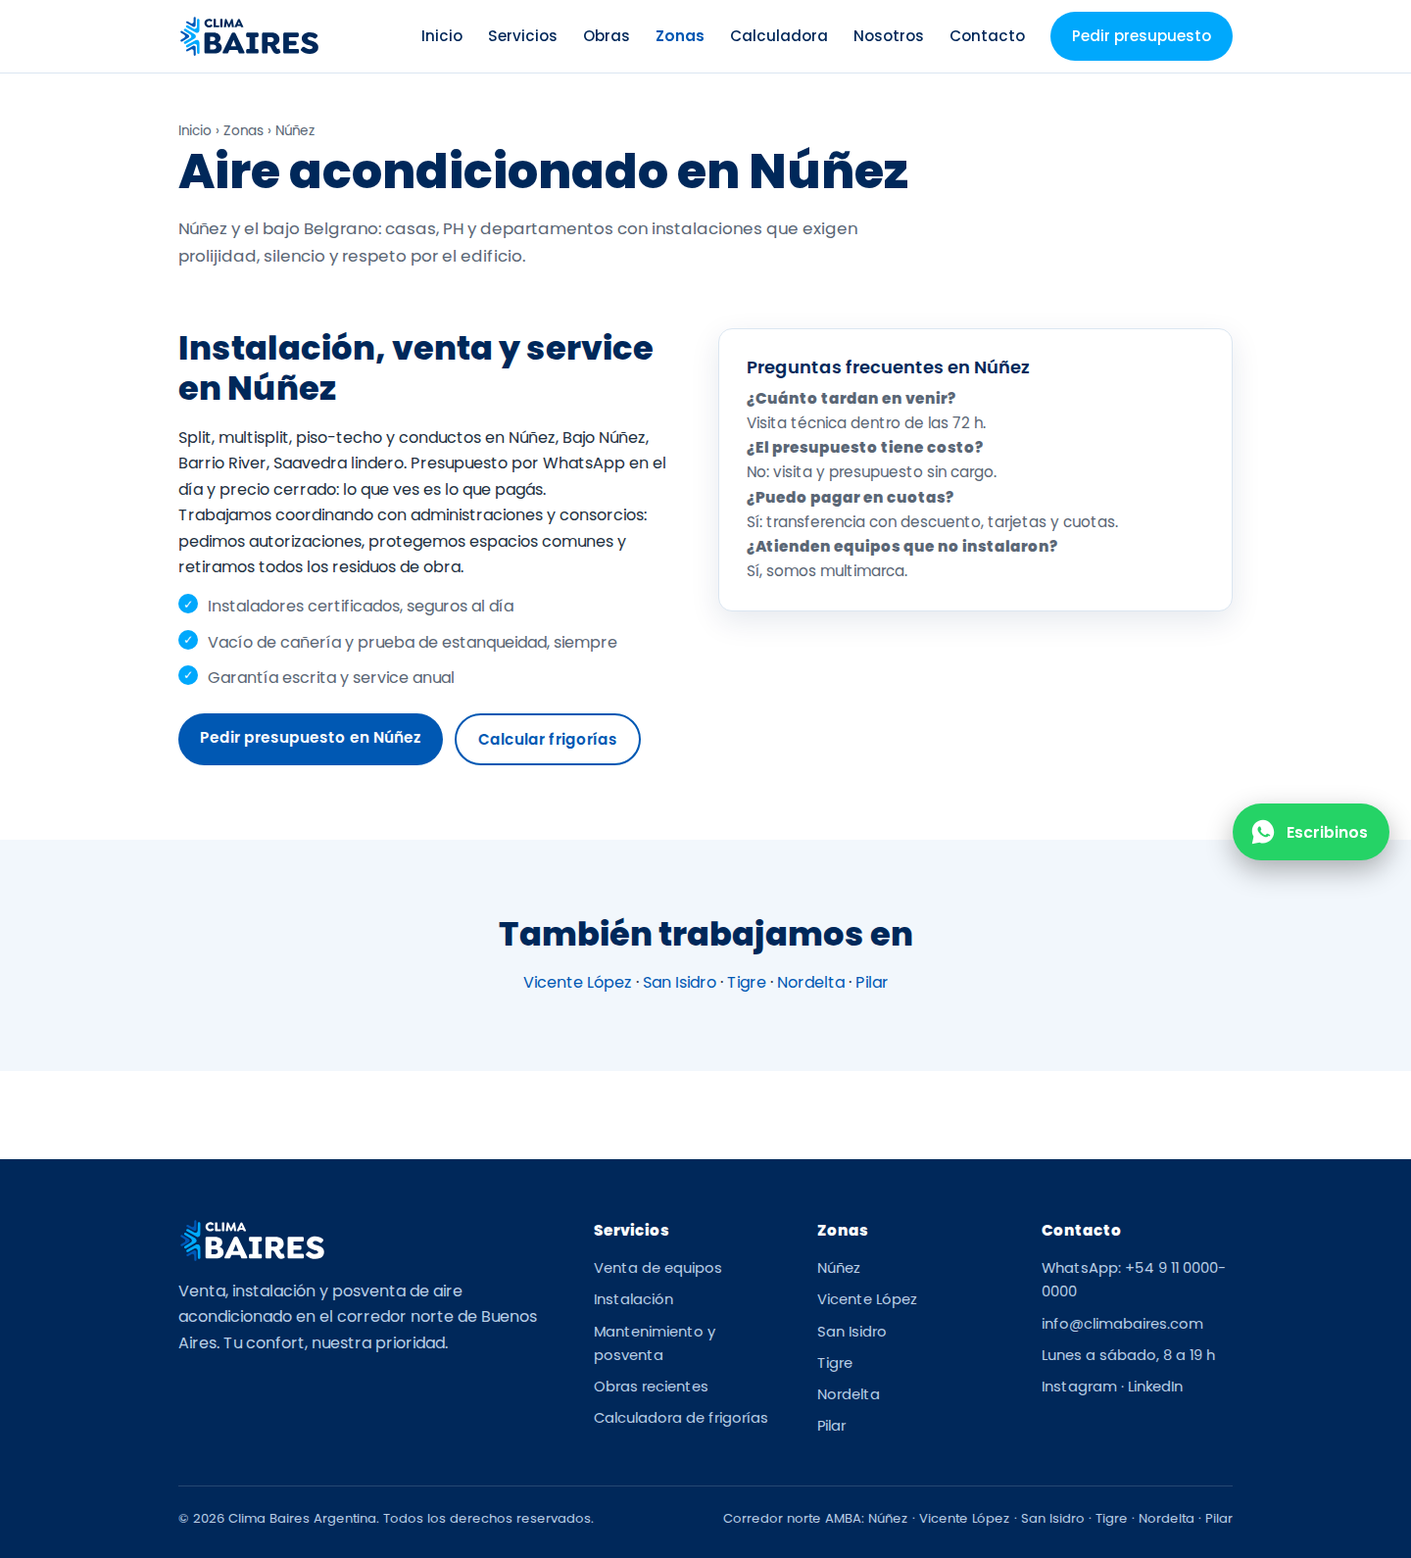
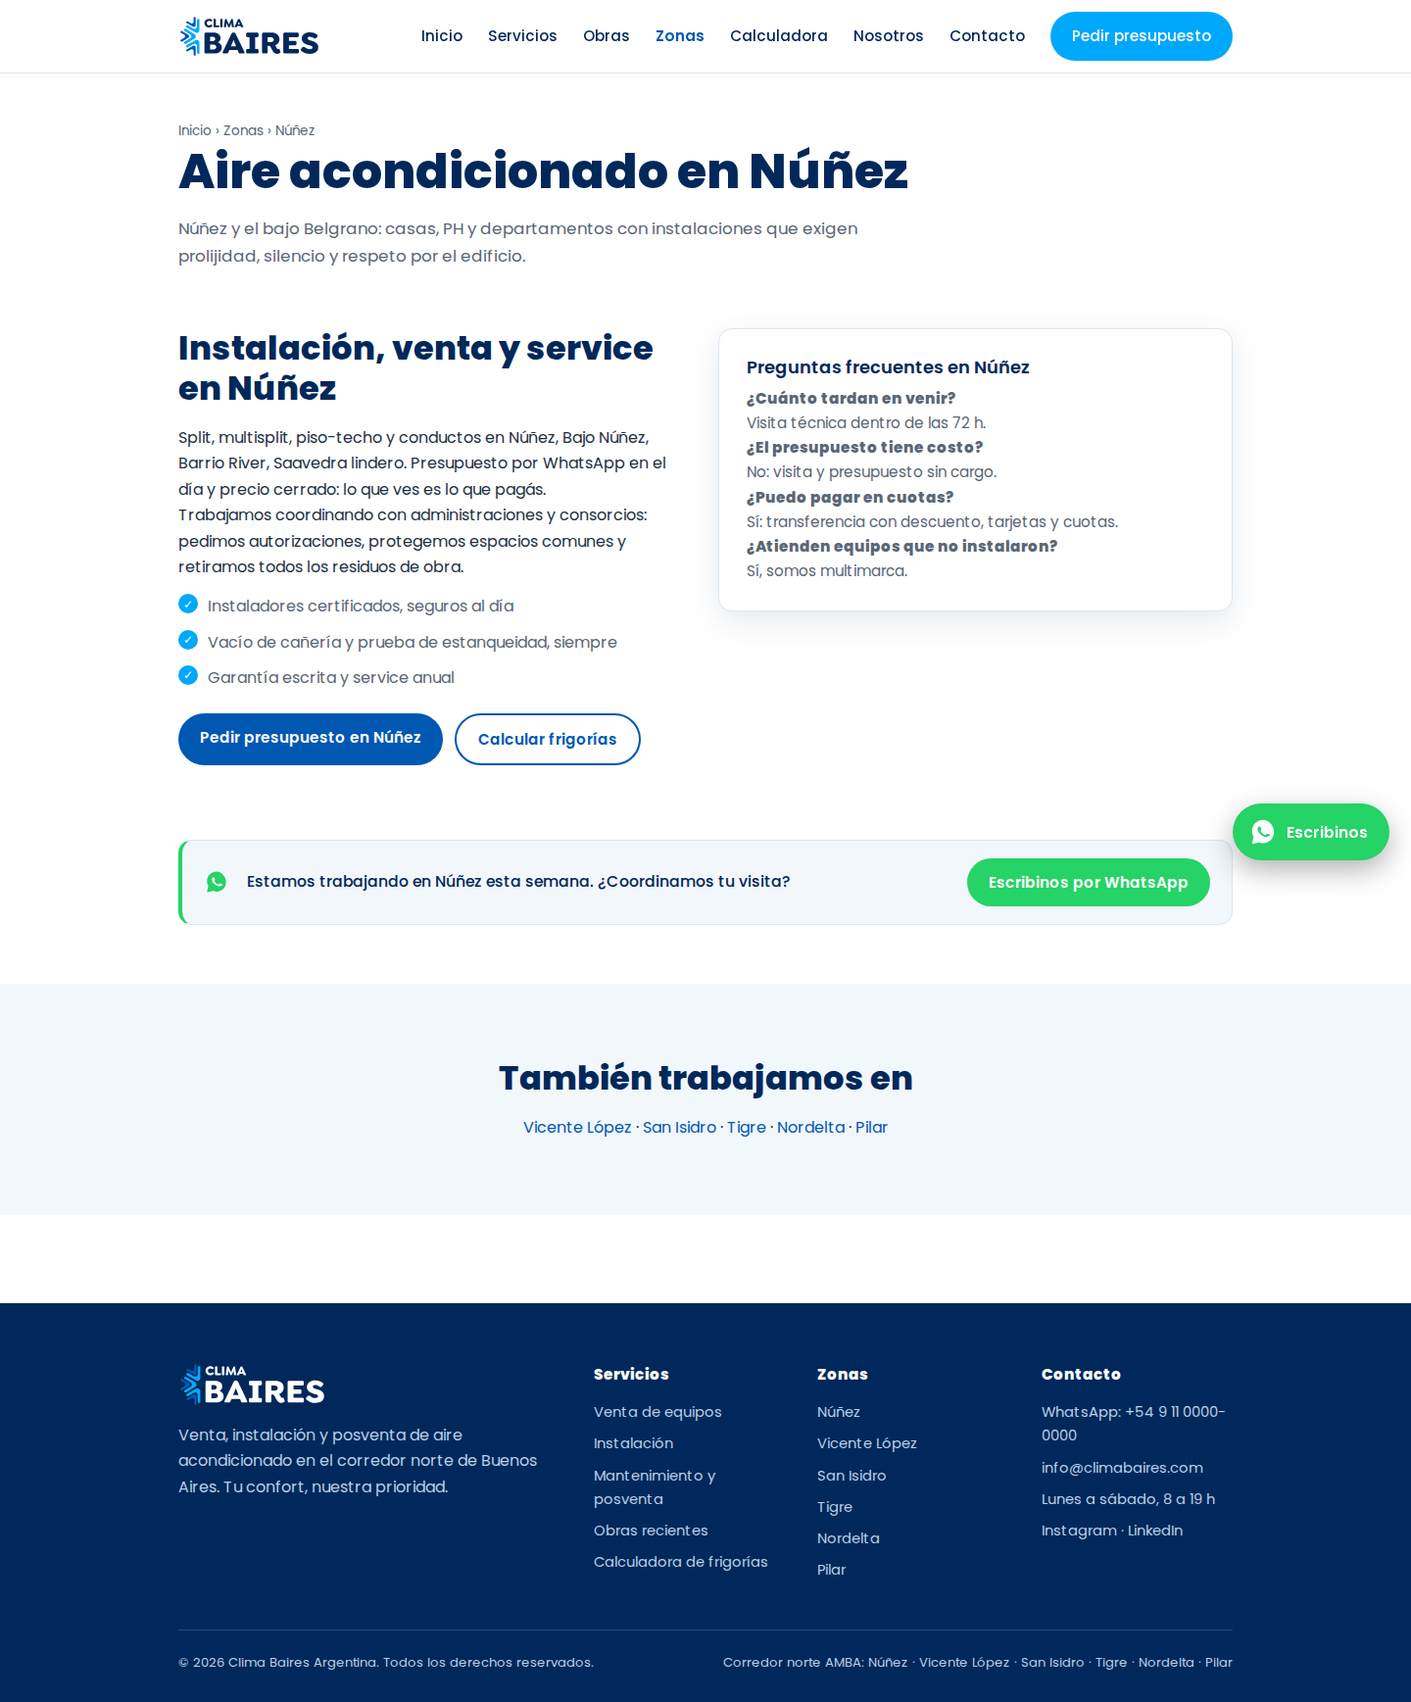
Cobertura de conversión: ninguna franja larga de scroll sin CTA de WhatsApp
- Nueva cinta-cta reutilizable (verde WhatsApp, discreta) distribuida en home,
  servicios, obras, sobre-nosotros, calculadora y páginas de zona
- Galería: tarjetas de CTA intercaladas cada 3 fotos con ganchos rotativos, más
  una cinta bajo los filtros — en móvil el mosaico es de una columna y antes
  quedaban 7 pantallas seguidas sin invitación a chatear
- QA nuevo: mide el hueco vertical máximo sin CTA en el flujo del documento
  (el flotante y la barra móvil son fijos y no cuentan) y falla si supera
  2,5 pantallas. Antes: hasta 7,3 pantallas. Ahora: 1,5 desktop / 2,4 móvil

Claude-Session: https://claude.ai/code/session_01UMXhTey5vCobBk23QC6J6a

diff --git a/web/obras.html b/web/obras.html
@@ -59,6 +59,14 @@
       <button class="filtro" data-grupo="tipo" data-valor="todos" aria-pressed="true">Todos</button>
       <button class="filtro" data-grupo="tipo" data-valor="conductos" aria-pressed="false">Cassette y conductos</button><button class="filtro" data-grupo="tipo" data-valor="equipo" aria-pressed="false">Equipo en obra</button><button class="filtro" data-grupo="tipo" data-valor="instalacion" aria-pressed="false">Instalación</button><button class="filtro" data-grupo="tipo" data-valor="mantenimiento" aria-pressed="false">Mantenimiento</button>
     </div>
+    <div style="margin:22px 0 4px">
+<div class="contenedor">
+  <div class="cinta-cta">
+    <svg viewBox="0 0 32 32" aria-hidden="true"><path d="M16 3C9.4 3 4 8.4 4 15c0 2.1.6 4.2 1.7 6L4 29l8.2-1.6c1.2.6 2.5.9 3.8.9 6.6 0 12-5.4 12-12S22.6 3 16 3zm6.1 16.9c-.3.8-1.5 1.5-2.1 1.6-.6.1-1.3.2-3.6-.8-3-1.2-4.9-4.3-5.1-4.5-.1-.2-1.2-1.6-1.2-3.1s.8-2.2 1-2.5c.3-.3.6-.4.8-.4h.6c.2 0 .4 0 .7.5.3.6.9 2.1.9 2.3.1.2.1.3 0 .5-.1.2-.1.3-.3.5l-.4.5c-.2.2-.3.4-.1.7.2.3.9 1.5 2 2.4 1.4 1.2 2.5 1.6 2.9 1.8.3.2.5.1.7-.1l1.1-1.3c.2-.3.5-.2.8-.1l2.3 1.1c.3.2.5.2.6.4 0 .1 0 .8-.3 1.5z"/></svg>
+    <p>Mirá cómo trabajamos. ¿Querés lo mismo en tu casa?</p>
+    <a class="boton verde" data-wsp="Hola Clima Baires, vi sus obras y quiero un presupuesto." data-origen="cinta" href="#">Pedir presupuesto</a>
+  </div>
+</div></div>
     <div class="obras-grilla" id="obras-grilla">
       <figure class="obra" data-zona="malaga" data-tipo="instalacion">
         <button class="obra-abrir" type="button" data-full="assets/img/obras/instalacion-condensadora-azotea-malaga-01-1600.webp"
@@ -81,6 +89,12 @@
         </button>
         <figcaption>Puesta en marcha de una condensadora comercial en azotea: control de presiones con manómetros, Málaga</figcaption>
       </figure>
+      <div class="obra-cta">
+        <svg viewBox="0 0 32 32" aria-hidden="true"><path d="M16 3C9.4 3 4 8.4 4 15c0 2.1.6 4.2 1.7 6L4 29l8.2-1.6c1.2.6 2.5.9 3.8.9 6.6 0 12-5.4 12-12S22.6 3 16 3zm6.1 16.9c-.3.8-1.5 1.5-2.1 1.6-.6.1-1.3.2-3.6-.8-3-1.2-4.9-4.3-5.1-4.5-.1-.2-1.2-1.6-1.2-3.1s.8-2.2 1-2.5c.3-.3.6-.4.8-.4h.6c.2 0 .4 0 .7.5.3.6.9 2.1.9 2.3.1.2.1.3 0 .5-.1.2-.1.3-.3.5l-.4.5c-.2.2-.3.4-.1.7.2.3.9 1.5 2 2.4 1.4 1.2 2.5 1.6 2.9 1.8.3.2.5.1.7-.1l1.1-1.3c.2-.3.5-.2.8-.1l2.3 1.1c.3.2.5.2.6.4 0 .1 0 .8-.3 1.5z"/></svg>
+        <h3>¿Querés algo así en tu casa?</h3>
+        <p>Mandanos una foto del ambiente y te pasamos precio hoy.</p>
+        <a class="boton verde" data-wsp="Hola Clima Baires, vi sus obras y quiero un presupuesto." data-origen="cinta" href="#">Escribinos por WhatsApp</a>
+      </div>
       <figure class="obra" data-zona="malaga" data-tipo="conductos">
         <button class="obra-abrir" type="button" data-full="assets/img/obras/instalacion-cassette-oficina-malaga-01-1600.webp"
                 data-alt="Instalación de aire acondicionado tipo cassette en el cielorraso de una oficina, Málaga" data-slug="instalacion-cassette-oficina-malaga-01" aria-label="Ampliar: Instalación de aire acondicionado tipo cassette en el cielorraso de una oficina, Málaga">
@@ -102,6 +116,12 @@
         </button>
         <figcaption>Service y mantenimiento de un split mural en una oficina por técnico de Clima Baires, Málaga</figcaption>
       </figure>
+      <div class="obra-cta">
+        <svg viewBox="0 0 32 32" aria-hidden="true"><path d="M16 3C9.4 3 4 8.4 4 15c0 2.1.6 4.2 1.7 6L4 29l8.2-1.6c1.2.6 2.5.9 3.8.9 6.6 0 12-5.4 12-12S22.6 3 16 3zm6.1 16.9c-.3.8-1.5 1.5-2.1 1.6-.6.1-1.3.2-3.6-.8-3-1.2-4.9-4.3-5.1-4.5-.1-.2-1.2-1.6-1.2-3.1s.8-2.2 1-2.5c.3-.3.6-.4.8-.4h.6c.2 0 .4 0 .7.5.3.6.9 2.1.9 2.3.1.2.1.3 0 .5-.1.2-.1.3-.3.5l-.4.5c-.2.2-.3.4-.1.7.2.3.9 1.5 2 2.4 1.4 1.2 2.5 1.6 2.9 1.8.3.2.5.1.7-.1l1.1-1.3c.2-.3.5-.2.8-.1l2.3 1.1c.3.2.5.2.6.4 0 .1 0 .8-.3 1.5z"/></svg>
+        <h3>Instalamos esta semana</h3>
+        <p>Contanos qué necesitás y coordinamos la visita técnica.</p>
+        <a class="boton verde" data-wsp="Hola Clima Baires, quiero coordinar una visita técnica." data-origen="cinta" href="#">Escribinos por WhatsApp</a>
+      </div>
       <figure class="obra" data-zona="malaga" data-tipo="equipo">
         <button class="obra-abrir" type="button" data-full="assets/img/obras/nave-flota-stock-malaga-01-1600.webp"
                 data-alt="La base de Clima Baires: flota de vehículos rotulados y stock de equipos listos para instalar, Málaga (casa matriz)" data-slug="nave-flota-stock-malaga-01" aria-label="Ampliar: La base de Clima Baires: flota de vehículos rotulados y stock de equipos listos para instalar, Málaga (casa matriz)">
@@ -123,6 +143,12 @@
         </button>
         <figcaption>Técnico de Clima Baires preparando el acceso para climatizar un local comercial, Málaga</figcaption>
       </figure>
+      <div class="obra-cta">
+        <svg viewBox="0 0 32 32" aria-hidden="true"><path d="M16 3C9.4 3 4 8.4 4 15c0 2.1.6 4.2 1.7 6L4 29l8.2-1.6c1.2.6 2.5.9 3.8.9 6.6 0 12-5.4 12-12S22.6 3 16 3zm6.1 16.9c-.3.8-1.5 1.5-2.1 1.6-.6.1-1.3.2-3.6-.8-3-1.2-4.9-4.3-5.1-4.5-.1-.2-1.2-1.6-1.2-3.1s.8-2.2 1-2.5c.3-.3.6-.4.8-.4h.6c.2 0 .4 0 .7.5.3.6.9 2.1.9 2.3.1.2.1.3 0 .5-.1.2-.1.3-.3.5l-.4.5c-.2.2-.3.4-.1.7.2.3.9 1.5 2 2.4 1.4 1.2 2.5 1.6 2.9 1.8.3.2.5.1.7-.1l1.1-1.3c.2-.3.5-.2.8-.1l2.3 1.1c.3.2.5.2.6.4 0 .1 0 .8-.3 1.5z"/></svg>
+        <h3>¿Tenés un equipo para cambiar?</h3>
+        <p>Te cotizamos el recambio con retiro del viejo incluido.</p>
+        <a class="boton verde" data-wsp="Hola Clima Baires, quiero cotizar un recambio de equipo." data-origen="cinta" href="#">Escribinos por WhatsApp</a>
+      </div>
       <figure class="obra" data-zona="malaga" data-tipo="equipo">
         <button class="obra-abrir" type="button" data-full="assets/img/obras/equipo-llegada-obra-malaga-01-1600.webp"
                 data-alt="El equipo de Clima Baires llegando a una obra con escaleras y herramientas, Málaga" data-slug="equipo-llegada-obra-malaga-01" aria-label="Ampliar: El equipo de Clima Baires llegando a una obra con escaleras y herramientas, Málaga">

diff --git a/web/index.html b/web/index.html
@@ -95,6 +95,16 @@
   </div>
 </section>
 
+<section class="seccion" style="padding:0 0 40px">
+<div class="contenedor">
+  <div class="cinta-cta">
+    <svg viewBox="0 0 32 32" aria-hidden="true"><path d="M16 3C9.4 3 4 8.4 4 15c0 2.1.6 4.2 1.7 6L4 29l8.2-1.6c1.2.6 2.5.9 3.8.9 6.6 0 12-5.4 12-12S22.6 3 16 3zm6.1 16.9c-.3.8-1.5 1.5-2.1 1.6-.6.1-1.3.2-3.6-.8-3-1.2-4.9-4.3-5.1-4.5-.1-.2-1.2-1.6-1.2-3.1s.8-2.2 1-2.5c.3-.3.6-.4.8-.4h.6c.2 0 .4 0 .7.5.3.6.9 2.1.9 2.3.1.2.1.3 0 .5-.1.2-.1.3-.3.5l-.4.5c-.2.2-.3.4-.1.7.2.3.9 1.5 2 2.4 1.4 1.2 2.5 1.6 2.9 1.8.3.2.5.1.7-.1l1.1-1.3c.2-.3.5-.2.8-.1l2.3 1.1c.3.2.5.2.6.4 0 .1 0 .8-.3 1.5z"/></svg>
+    <p>¿Cuál de los tres necesitás? Preguntanos sin compromiso.</p>
+    <a class="boton verde" data-wsp="Hola Clima Baires, quiero hacer una consulta sobre sus servicios." data-origen="cinta" href="#">Preguntar por WhatsApp</a>
+  </div>
+</div>
+</section>
+
 <section class="seccion alterna" id="zonas">
   <div class="contenedor">
     <div class="centrado"><span class="kicker">Dónde trabajamos</span><h2>De Núñez a Pilar</h2></div>
@@ -109,6 +119,16 @@
     <div class="claim"><strong>Garantía</strong><span>por escrito</span></div>
     <div class="claim"><strong>Countries</strong><span>seguros al día</span></div>
   </div>
+</section>
+
+<section class="seccion" style="padding:0 0 40px">
+<div class="contenedor">
+  <div class="cinta-cta">
+    <svg viewBox="0 0 32 32" aria-hidden="true"><path d="M16 3C9.4 3 4 8.4 4 15c0 2.1.6 4.2 1.7 6L4 29l8.2-1.6c1.2.6 2.5.9 3.8.9 6.6 0 12-5.4 12-12S22.6 3 16 3zm6.1 16.9c-.3.8-1.5 1.5-2.1 1.6-.6.1-1.3.2-3.6-.8-3-1.2-4.9-4.3-5.1-4.5-.1-.2-1.2-1.6-1.2-3.1s.8-2.2 1-2.5c.3-.3.6-.4.8-.4h.6c.2 0 .4 0 .7.5.3.6.9 2.1.9 2.3.1.2.1.3 0 .5-.1.2-.1.3-.3.5l-.4.5c-.2.2-.3.4-.1.7.2.3.9 1.5 2 2.4 1.4 1.2 2.5 1.6 2.9 1.8.3.2.5.1.7-.1l1.1-1.3c.2-.3.5-.2.8-.1l2.3 1.1c.3.2.5.2.6.4 0 .1 0 .8-.3 1.5z"/></svg>
+    <p>Contanos qué ambiente querés climatizar y te pasamos precio hoy.</p>
+    <a class="boton verde" data-wsp="Hola Clima Baires, quiero un presupuesto de equipo + instalación." data-origen="cinta" href="#">Escribinos por WhatsApp</a>
+  </div>
+</div>
 </section>
 
 <section class="seccion alterna" id="obras">

diff --git a/web/assets/css/styles.css b/web/assets/css/styles.css
@@ -146,6 +146,27 @@ h3 { font-size: 1.12rem; font-weight: 600; }
 .tarjeta ul { margin: 10px 0 0 18px; color: var(--gris); font-size: .93rem; }
 .tarjeta .enlace { display: inline-block; margin-top: 14px; font-weight: 600; font-size: .92rem; }
 
+/* cinta de conversión: ninguna franja larga de scroll sin CTA de WhatsApp */
+.cinta-cta {
+  display: flex; align-items: center; gap: 18px; flex-wrap: wrap;
+  background: var(--hielo); border: 1px solid var(--linea); border-left: 4px solid #25D366;
+  border-radius: var(--radio); padding: 18px 22px;
+}
+.cinta-cta svg { width: 26px; height: 26px; fill: #25D366; flex: 0 0 auto; }
+.cinta-cta p { margin: 0; flex: 1 1 260px; color: var(--navy); font-weight: 500; font-size: .98rem; }
+.boton.verde { background: #25D366; }
+.boton.verde:hover { box-shadow: 0 8px 20px rgba(37, 211, 102, .38); }
+
+/* tarjeta de CTA dentro del mosaico de obras */
+.obra-cta {
+  break-inside: avoid; margin: 0 0 22px; text-align: center;
+  background: linear-gradient(160deg, var(--azul), var(--navy)); color: #fff;
+  border-radius: var(--radio); padding: 30px 24px; box-shadow: var(--sombra);
+}
+.obra-cta svg { width: 40px; height: 40px; fill: #fff; opacity: .9; }
+.obra-cta h3 { color: #fff; margin: 10px 0 6px; }
+.obra-cta p { color: #cfe8ff; font-size: .92rem; margin-bottom: 18px; }
+
 .lista-check { list-style: none; margin-top: 14px; }
 .lista-check li { padding-left: 30px; position: relative; margin-bottom: 10px; color: var(--gris); }
 .lista-check li::before {

diff --git a/web/servicios.html b/web/servicios.html
@@ -70,6 +70,16 @@
   </div>
 </section>
 
+<section class="seccion" style="padding:0 0 50px">
+<div class="contenedor">
+  <div class="cinta-cta">
+    <svg viewBox="0 0 32 32" aria-hidden="true"><path d="M16 3C9.4 3 4 8.4 4 15c0 2.1.6 4.2 1.7 6L4 29l8.2-1.6c1.2.6 2.5.9 3.8.9 6.6 0 12-5.4 12-12S22.6 3 16 3zm6.1 16.9c-.3.8-1.5 1.5-2.1 1.6-.6.1-1.3.2-3.6-.8-3-1.2-4.9-4.3-5.1-4.5-.1-.2-1.2-1.6-1.2-3.1s.8-2.2 1-2.5c.3-.3.6-.4.8-.4h.6c.2 0 .4 0 .7.5.3.6.9 2.1.9 2.3.1.2.1.3 0 .5-.1.2-.1.3-.3.5l-.4.5c-.2.2-.3.4-.1.7.2.3.9 1.5 2 2.4 1.4 1.2 2.5 1.6 2.9 1.8.3.2.5.1.7-.1l1.1-1.3c.2-.3.5-.2.8-.1l2.3 1.1c.3.2.5.2.6.4 0 .1 0 .8-.3 1.5z"/></svg>
+    <p>Contanos qué necesitás y te armamos el presupuesto hoy.</p>
+    <a class="boton verde" data-wsp="Hola Clima Baires, quiero un presupuesto." data-origen="cinta" href="#">Escribinos por WhatsApp</a>
+  </div>
+</div>
+</section>
+
 <section class="seccion alterna">
   <div class="contenedor">
     <div class="centrado"><span class="kicker">Cómo trabajamos</span><h2>Cuatro pasos, cero sorpresas</h2></div>

diff --git a/web/zonas/vicente-lopez.html b/web/zonas/vicente-lopez.html
@@ -75,6 +75,16 @@
   </div>
 </section>
 
+<section class="seccion" style="padding:0 0 60px">
+<div class="contenedor">
+  <div class="cinta-cta">
+    <svg viewBox="0 0 32 32" aria-hidden="true"><path d="M16 3C9.4 3 4 8.4 4 15c0 2.1.6 4.2 1.7 6L4 29l8.2-1.6c1.2.6 2.5.9 3.8.9 6.6 0 12-5.4 12-12S22.6 3 16 3zm6.1 16.9c-.3.8-1.5 1.5-2.1 1.6-.6.1-1.3.2-3.6-.8-3-1.2-4.9-4.3-5.1-4.5-.1-.2-1.2-1.6-1.2-3.1s.8-2.2 1-2.5c.3-.3.6-.4.8-.4h.6c.2 0 .4 0 .7.5.3.6.9 2.1.9 2.3.1.2.1.3 0 .5-.1.2-.1.3-.3.5l-.4.5c-.2.2-.3.4-.1.7.2.3.9 1.5 2 2.4 1.4 1.2 2.5 1.6 2.9 1.8.3.2.5.1.7-.1l1.1-1.3c.2-.3.5-.2.8-.1l2.3 1.1c.3.2.5.2.6.4 0 .1 0 .8-.3 1.5z"/></svg>
+    <p>Estamos trabajando en Vicente López esta semana. ¿Coordinamos tu visita?</p>
+    <a class="boton verde" data-wsp="Hola, estoy en Vicente López y quiero presupuesto de instalación." data-origen="cinta" href="#">Escribinos por WhatsApp</a>
+  </div>
+</div>
+</section>
+
 <section class="seccion alterna">
   <div class="contenedor centrado">
     <h2>También trabajamos en</h2>

diff --git a/web/zonas/san-isidro.html b/web/zonas/san-isidro.html
@@ -75,6 +75,16 @@
   </div>
 </section>
 
+<section class="seccion" style="padding:0 0 60px">
+<div class="contenedor">
+  <div class="cinta-cta">
+    <svg viewBox="0 0 32 32" aria-hidden="true"><path d="M16 3C9.4 3 4 8.4 4 15c0 2.1.6 4.2 1.7 6L4 29l8.2-1.6c1.2.6 2.5.9 3.8.9 6.6 0 12-5.4 12-12S22.6 3 16 3zm6.1 16.9c-.3.8-1.5 1.5-2.1 1.6-.6.1-1.3.2-3.6-.8-3-1.2-4.9-4.3-5.1-4.5-.1-.2-1.2-1.6-1.2-3.1s.8-2.2 1-2.5c.3-.3.6-.4.8-.4h.6c.2 0 .4 0 .7.5.3.6.9 2.1.9 2.3.1.2.1.3 0 .5-.1.2-.1.3-.3.5l-.4.5c-.2.2-.3.4-.1.7.2.3.9 1.5 2 2.4 1.4 1.2 2.5 1.6 2.9 1.8.3.2.5.1.7-.1l1.1-1.3c.2-.3.5-.2.8-.1l2.3 1.1c.3.2.5.2.6.4 0 .1 0 .8-.3 1.5z"/></svg>
+    <p>Estamos trabajando en San Isidro esta semana. ¿Coordinamos tu visita?</p>
+    <a class="boton verde" data-wsp="Hola, estoy en San Isidro y quiero presupuesto de instalación." data-origen="cinta" href="#">Escribinos por WhatsApp</a>
+  </div>
+</div>
+</section>
+
 <section class="seccion alterna">
   <div class="contenedor centrado">
     <h2>También trabajamos en</h2>

diff --git a/web/zonas/nordelta.html b/web/zonas/nordelta.html
@@ -75,6 +75,16 @@
   </div>
 </section>
 
+<section class="seccion" style="padding:0 0 60px">
+<div class="contenedor">
+  <div class="cinta-cta">
+    <svg viewBox="0 0 32 32" aria-hidden="true"><path d="M16 3C9.4 3 4 8.4 4 15c0 2.1.6 4.2 1.7 6L4 29l8.2-1.6c1.2.6 2.5.9 3.8.9 6.6 0 12-5.4 12-12S22.6 3 16 3zm6.1 16.9c-.3.8-1.5 1.5-2.1 1.6-.6.1-1.3.2-3.6-.8-3-1.2-4.9-4.3-5.1-4.5-.1-.2-1.2-1.6-1.2-3.1s.8-2.2 1-2.5c.3-.3.6-.4.8-.4h.6c.2 0 .4 0 .7.5.3.6.9 2.1.9 2.3.1.2.1.3 0 .5-.1.2-.1.3-.3.5l-.4.5c-.2.2-.3.4-.1.7.2.3.9 1.5 2 2.4 1.4 1.2 2.5 1.6 2.9 1.8.3.2.5.1.7-.1l1.1-1.3c.2-.3.5-.2.8-.1l2.3 1.1c.3.2.5.2.6.4 0 .1 0 .8-.3 1.5z"/></svg>
+    <p>Estamos trabajando en Nordelta esta semana. ¿Coordinamos tu visita?</p>
+    <a class="boton verde" data-wsp="Hola, estoy en Nordelta y quiero presupuesto de instalación." data-origen="cinta" href="#">Escribinos por WhatsApp</a>
+  </div>
+</div>
+</section>
+
 <section class="seccion alterna">
   <div class="contenedor centrado">
     <h2>También trabajamos en</h2>

diff --git a/web/zonas/nunez.html b/web/zonas/nunez.html
@@ -75,6 +75,16 @@
   </div>
 </section>
 
+<section class="seccion" style="padding:0 0 60px">
+<div class="contenedor">
+  <div class="cinta-cta">
+    <svg viewBox="0 0 32 32" aria-hidden="true"><path d="M16 3C9.4 3 4 8.4 4 15c0 2.1.6 4.2 1.7 6L4 29l8.2-1.6c1.2.6 2.5.9 3.8.9 6.6 0 12-5.4 12-12S22.6 3 16 3zm6.1 16.9c-.3.8-1.5 1.5-2.1 1.6-.6.1-1.3.2-3.6-.8-3-1.2-4.9-4.3-5.1-4.5-.1-.2-1.2-1.6-1.2-3.1s.8-2.2 1-2.5c.3-.3.6-.4.8-.4h.6c.2 0 .4 0 .7.5.3.6.9 2.1.9 2.3.1.2.1.3 0 .5-.1.2-.1.3-.3.5l-.4.5c-.2.2-.3.4-.1.7.2.3.9 1.5 2 2.4 1.4 1.2 2.5 1.6 2.9 1.8.3.2.5.1.7-.1l1.1-1.3c.2-.3.5-.2.8-.1l2.3 1.1c.3.2.5.2.6.4 0 .1 0 .8-.3 1.5z"/></svg>
+    <p>Estamos trabajando en Núñez esta semana. ¿Coordinamos tu visita?</p>
+    <a class="boton verde" data-wsp="Hola, estoy en Núñez y quiero presupuesto de instalación." data-origen="cinta" href="#">Escribinos por WhatsApp</a>
+  </div>
+</div>
+</section>
+
 <section class="seccion alterna">
   <div class="contenedor centrado">
     <h2>También trabajamos en</h2>

diff --git a/web/zonas/pilar.html b/web/zonas/pilar.html
@@ -75,6 +75,16 @@
   </div>
 </section>
 
+<section class="seccion" style="padding:0 0 60px">
+<div class="contenedor">
+  <div class="cinta-cta">
+    <svg viewBox="0 0 32 32" aria-hidden="true"><path d="M16 3C9.4 3 4 8.4 4 15c0 2.1.6 4.2 1.7 6L4 29l8.2-1.6c1.2.6 2.5.9 3.8.9 6.6 0 12-5.4 12-12S22.6 3 16 3zm6.1 16.9c-.3.8-1.5 1.5-2.1 1.6-.6.1-1.3.2-3.6-.8-3-1.2-4.9-4.3-5.1-4.5-.1-.2-1.2-1.6-1.2-3.1s.8-2.2 1-2.5c.3-.3.6-.4.8-.4h.6c.2 0 .4 0 .7.5.3.6.9 2.1.9 2.3.1.2.1.3 0 .5-.1.2-.1.3-.3.5l-.4.5c-.2.2-.3.4-.1.7.2.3.9 1.5 2 2.4 1.4 1.2 2.5 1.6 2.9 1.8.3.2.5.1.7-.1l1.1-1.3c.2-.3.5-.2.8-.1l2.3 1.1c.3.2.5.2.6.4 0 .1 0 .8-.3 1.5z"/></svg>
+    <p>Estamos trabajando en Pilar esta semana. ¿Coordinamos tu visita?</p>
+    <a class="boton verde" data-wsp="Hola, estoy en Pilar y quiero presupuesto de instalación." data-origen="cinta" href="#">Escribinos por WhatsApp</a>
+  </div>
+</div>
+</section>
+
 <section class="seccion alterna">
   <div class="contenedor centrado">
     <h2>También trabajamos en</h2>

diff --git a/web/zonas/tigre.html b/web/zonas/tigre.html
@@ -75,6 +75,16 @@
   </div>
 </section>
 
+<section class="seccion" style="padding:0 0 60px">
+<div class="contenedor">
+  <div class="cinta-cta">
+    <svg viewBox="0 0 32 32" aria-hidden="true"><path d="M16 3C9.4 3 4 8.4 4 15c0 2.1.6 4.2 1.7 6L4 29l8.2-1.6c1.2.6 2.5.9 3.8.9 6.6 0 12-5.4 12-12S22.6 3 16 3zm6.1 16.9c-.3.8-1.5 1.5-2.1 1.6-.6.1-1.3.2-3.6-.8-3-1.2-4.9-4.3-5.1-4.5-.1-.2-1.2-1.6-1.2-3.1s.8-2.2 1-2.5c.3-.3.6-.4.8-.4h.6c.2 0 .4 0 .7.5.3.6.9 2.1.9 2.3.1.2.1.3 0 .5-.1.2-.1.3-.3.5l-.4.5c-.2.2-.3.4-.1.7.2.3.9 1.5 2 2.4 1.4 1.2 2.5 1.6 2.9 1.8.3.2.5.1.7-.1l1.1-1.3c.2-.3.5-.2.8-.1l2.3 1.1c.3.2.5.2.6.4 0 .1 0 .8-.3 1.5z"/></svg>
+    <p>Estamos trabajando en Tigre esta semana. ¿Coordinamos tu visita?</p>
+    <a class="boton verde" data-wsp="Hola, estoy en Tigre y quiero presupuesto de instalación." data-origen="cinta" href="#">Escribinos por WhatsApp</a>
+  </div>
+</div>
+</section>
+
 <section class="seccion alterna">
   <div class="contenedor centrado">
     <h2>También trabajamos en</h2>

diff --git a/web/calculadora-frigorias.html b/web/calculadora-frigorias.html
@@ -96,6 +96,16 @@
   </div>
 </section>
 
+<section class="seccion" style="padding:0 0 70px">
+<div class="contenedor">
+  <div class="cinta-cta">
+    <svg viewBox="0 0 32 32" aria-hidden="true"><path d="M16 3C9.4 3 4 8.4 4 15c0 2.1.6 4.2 1.7 6L4 29l8.2-1.6c1.2.6 2.5.9 3.8.9 6.6 0 12-5.4 12-12S22.6 3 16 3zm6.1 16.9c-.3.8-1.5 1.5-2.1 1.6-.6.1-1.3.2-3.6-.8-3-1.2-4.9-4.3-5.1-4.5-.1-.2-1.2-1.6-1.2-3.1s.8-2.2 1-2.5c.3-.3.6-.4.8-.4h.6c.2 0 .4 0 .7.5.3.6.9 2.1.9 2.3.1.2.1.3 0 .5-.1.2-.1.3-.3.5l-.4.5c-.2.2-.3.4-.1.7.2.3.9 1.5 2 2.4 1.4 1.2 2.5 1.6 2.9 1.8.3.2.5.1.7-.1l1.1-1.3c.2-.3.5-.2.8-.1l2.3 1.1c.3.2.5.2.6.4 0 .1 0 .8-.3 1.5z"/></svg>
+    <p>¿Preferís que lo veamos nosotros? Mandanos las medidas por WhatsApp.</p>
+    <a class="boton verde" data-wsp="Hola Clima Baires, quiero saber qué equipo necesito para mi ambiente." data-origen="cinta" href="#">Consultar por WhatsApp</a>
+  </div>
+</div>
+</section>
+
 
 <footer class="pie">
   <div class="contenedor">

diff --git a/web/sobre-nosotros.html b/web/sobre-nosotros.html
@@ -78,6 +78,15 @@
   </div>
 </section>
 
+<section class="seccion" style="padding:0 0 60px">
+<div class="contenedor">
+  <div class="cinta-cta">
+    <svg viewBox="0 0 32 32" aria-hidden="true"><path d="M16 3C9.4 3 4 8.4 4 15c0 2.1.6 4.2 1.7 6L4 29l8.2-1.6c1.2.6 2.5.9 3.8.9 6.6 0 12-5.4 12-12S22.6 3 16 3zm6.1 16.9c-.3.8-1.5 1.5-2.1 1.6-.6.1-1.3.2-3.6-.8-3-1.2-4.9-4.3-5.1-4.5-.1-.2-1.2-1.6-1.2-3.1s.8-2.2 1-2.5c.3-.3.6-.4.8-.4h.6c.2 0 .4 0 .7.5.3.6.9 2.1.9 2.3.1.2.1.3 0 .5-.1.2-.1.3-.3.5l-.4.5c-.2.2-.3.4-.1.7.2.3.9 1.5 2 2.4 1.4 1.2 2.5 1.6 2.9 1.8.3.2.5.1.7-.1l1.1-1.3c.2-.3.5-.2.8-.1l2.3 1.1c.3.2.5.2.6.4 0 .1 0 .8-.3 1.5z"/></svg>
+    <p>¿Te contamos cómo lo haríamos en tu casa?</p>
+    <a class="boton verde" data-wsp="Hola Clima Baires, quiero que me asesoren para climatizar mi casa." data-origen="cinta" href="#">Escribinos por WhatsApp</a>
+  </div>
+</div>
+</section>
 
 <section class="seccion alterna">
   <div class="contenedor">
